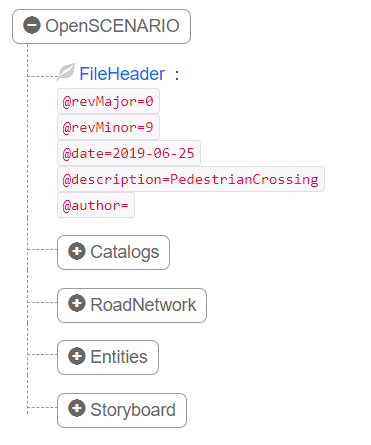
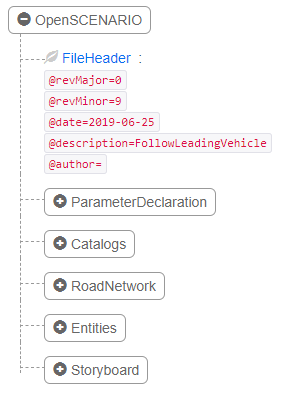
Added support for global OpenSCENARIO parameters
Inside the definition file of scenarios based on OpenSCENARIO, it is now
possible to make use of globally defined parameters.

Changed region(s): [[0.0, 0.0, 0.9184, 0.9697], [0.1224, 0.6061, 0.1531, 0.6364]]

diff --git a/srunner/scenarioconfigs/openscenario_configuration.py b/srunner/scenarioconfigs/openscenario_configuration.py
@@ -36,6 +36,7 @@ class OpenScenarioConfiguration(ScenarioConfiguration):
 
         self.xml_tree = ET.parse(filename)
 
+        self._set_global_parameters()
         self._validate_openscenario_configuration()
 
         self.other_actors = []
@@ -63,36 +64,36 @@ class OpenScenarioConfiguration(ScenarioConfiguration):
         """
         Parse the given OpenSCENARIO config file, set and validate parameters
         """
-        self._set_scenario_name(self.xml_tree)
-        self._set_carla_town(self.xml_tree)
-        self._set_actor_information(self.xml_tree)
-        self._set_carla_weather(self.xml_tree)
-        self._set_carla_friction(self.xml_tree)
+        self._set_scenario_name()
+        self._set_carla_town()
+        self._set_actor_information()
+        self._set_carla_weather()
+        self._set_carla_friction()
 
         self._validate_result()
 
-    def _set_scenario_name(self, xml_tree):
+    def _set_scenario_name(self):
         """
         Extract the scenario name from the OpenSCENARIO header information
         """
-        header = xml_tree.find("FileHeader")
+        header = self.xml_tree.find("FileHeader")
         self.name = header.attrib.get('description', 'Unknown')
 
-    def _set_carla_town(self, xml_tree):
+    def _set_carla_town(self):
         """
         Extract the CARLA town (level) from the RoadNetwork information from OpenSCENARIO
 
         Note: The specification allows multiple Logics elements within the RoadNetwork element.
               Hence, there can be multiple towns specified. We just use the _last_ one.
         """
-        for logic in xml_tree.find("RoadNetwork").findall("Logics"):
+        for logic in self.xml_tree.find("RoadNetwork").findall("Logics"):
             self.town = logic.attrib.get('filepath', None)
 
         if self.town is not None and ".xodr" in self.town:
             (_, tail) = os.path.split(self.town)
             self.town = tail[:-5]
 
-    def _set_carla_weather(self, xml_tree):
+    def _set_carla_weather(self):
         """
         Extract weather information from OpenSCENARIO config
         """
@@ -110,7 +111,7 @@ class OpenScenarioConfiguration(ScenarioConfiguration):
             elif precepitation.attrib.get('type') == "snow":
                 raise AttributeError("CARLA does not support snow precipitation")
 
-    def _set_carla_friction(self, xml_tree):
+    def _set_carla_friction(self):
         """
         Extract road friction information from OpenSCENARIO config
         """
@@ -119,13 +120,39 @@ class OpenScenarioConfiguration(ScenarioConfiguration):
         for condition in road_condition:
             self.friction = float(condition.attrib.get('frictionScale'))
 
-    def _set_actor_information(self, xml_tree):
+    def _set_global_parameters(self):
+        """
+        Parse the complete scenario definition file, and replace all global parameter references
+        with the actual values
+        """
+
+        global_parameters = dict()
+
+        for parameter in self.xml_tree.find('ParameterDeclaration'):
+            name = parameter.attrib.get('name')
+            value = parameter.attrib.get('value')
+
+            global_parameters[name] = value
+
+        for node in self.xml_tree.find('Entities').iter():
+            for key in node.attrib:
+                for param in global_parameters:
+                    if node.attrib[key] == param:
+                        node.attrib[key] = global_parameters[param]
+
+        for node in self.xml_tree.find('Storyboard').iter():
+            for key in node.attrib:
+                for param in global_parameters:
+                    if node.attrib[key] == param:
+                        node.attrib[key] = global_parameters[param]
+
+    def _set_actor_information(self):
         """
         Extract all actors and their corresponding specification
 
         NOTE: The rolename property has to be unique!
         """
-        for entity in xml_tree.iter("Entities"):
+        for entity in self.xml_tree.iter("Entities"):
             for obj in entity.iter("Object"):
                 rolename = obj.attrib.get('name', 'simulation')
                 for vehicle in obj.iter("Vehicle"):

diff --git a/Docs/openscenario_support.md b/Docs/openscenario_support.md
@@ -14,7 +14,12 @@ All scenarios based on OpenSCENARIO 0.9.5 have to follow this structure:
 
 <img src="images/OSC_main.png" width="300">
 
-The _FileHeader_ is only for informational purpose and does not influence any behavior. Nevertheless, providing a reasonable name is recommended. Then, there are four main components: _Catalogs_, _RoadNetwork_, _Entities_ and the _Storyboard_.
+The _FileHeader_ is only for informational purpose and does not influence any behavior. Nevertheless, providing a reasonable name is recommended. Then, there are four main components: _Catalogs_, _RoadNetwork_, _Entities_ and the _Storyboard_. In addition, parameters can be optionally declared inside the _ParameterDeclaration.
+
+### ParameterDeclaration
+Parameters can be used according to the _OSCParameterDeclaration_. Therefore, the parameter has to be provided with a name, its value and the type (integer, double or string). Important: The parameter name has to start with '$'.
+
+<img src="images/OSC_params.png" width="300">
 
 ### Catalogs
 Catalogs in OpenSCENARIO are a mean to import predefined information, for example about vehicle configurations. This allows, for example, to share certain setups or configurations among multiple scenarios.

diff --git a/CHANGELOG.md b/CHANGELOG.md
@@ -24,6 +24,7 @@
     - Added possibility to change speed for FollowRoute action
     - Added support for RoadCondition: Friction
     - Redundant rolename object property is no longer required
+    - Added support for global parameters
 * Fixes:
     - Avoided use of 'controller.ai.walker' as walker type in DynamicObjectCrossing scenario
     - Fixed WaypointFollower behavior to use m/s instead of km/h
